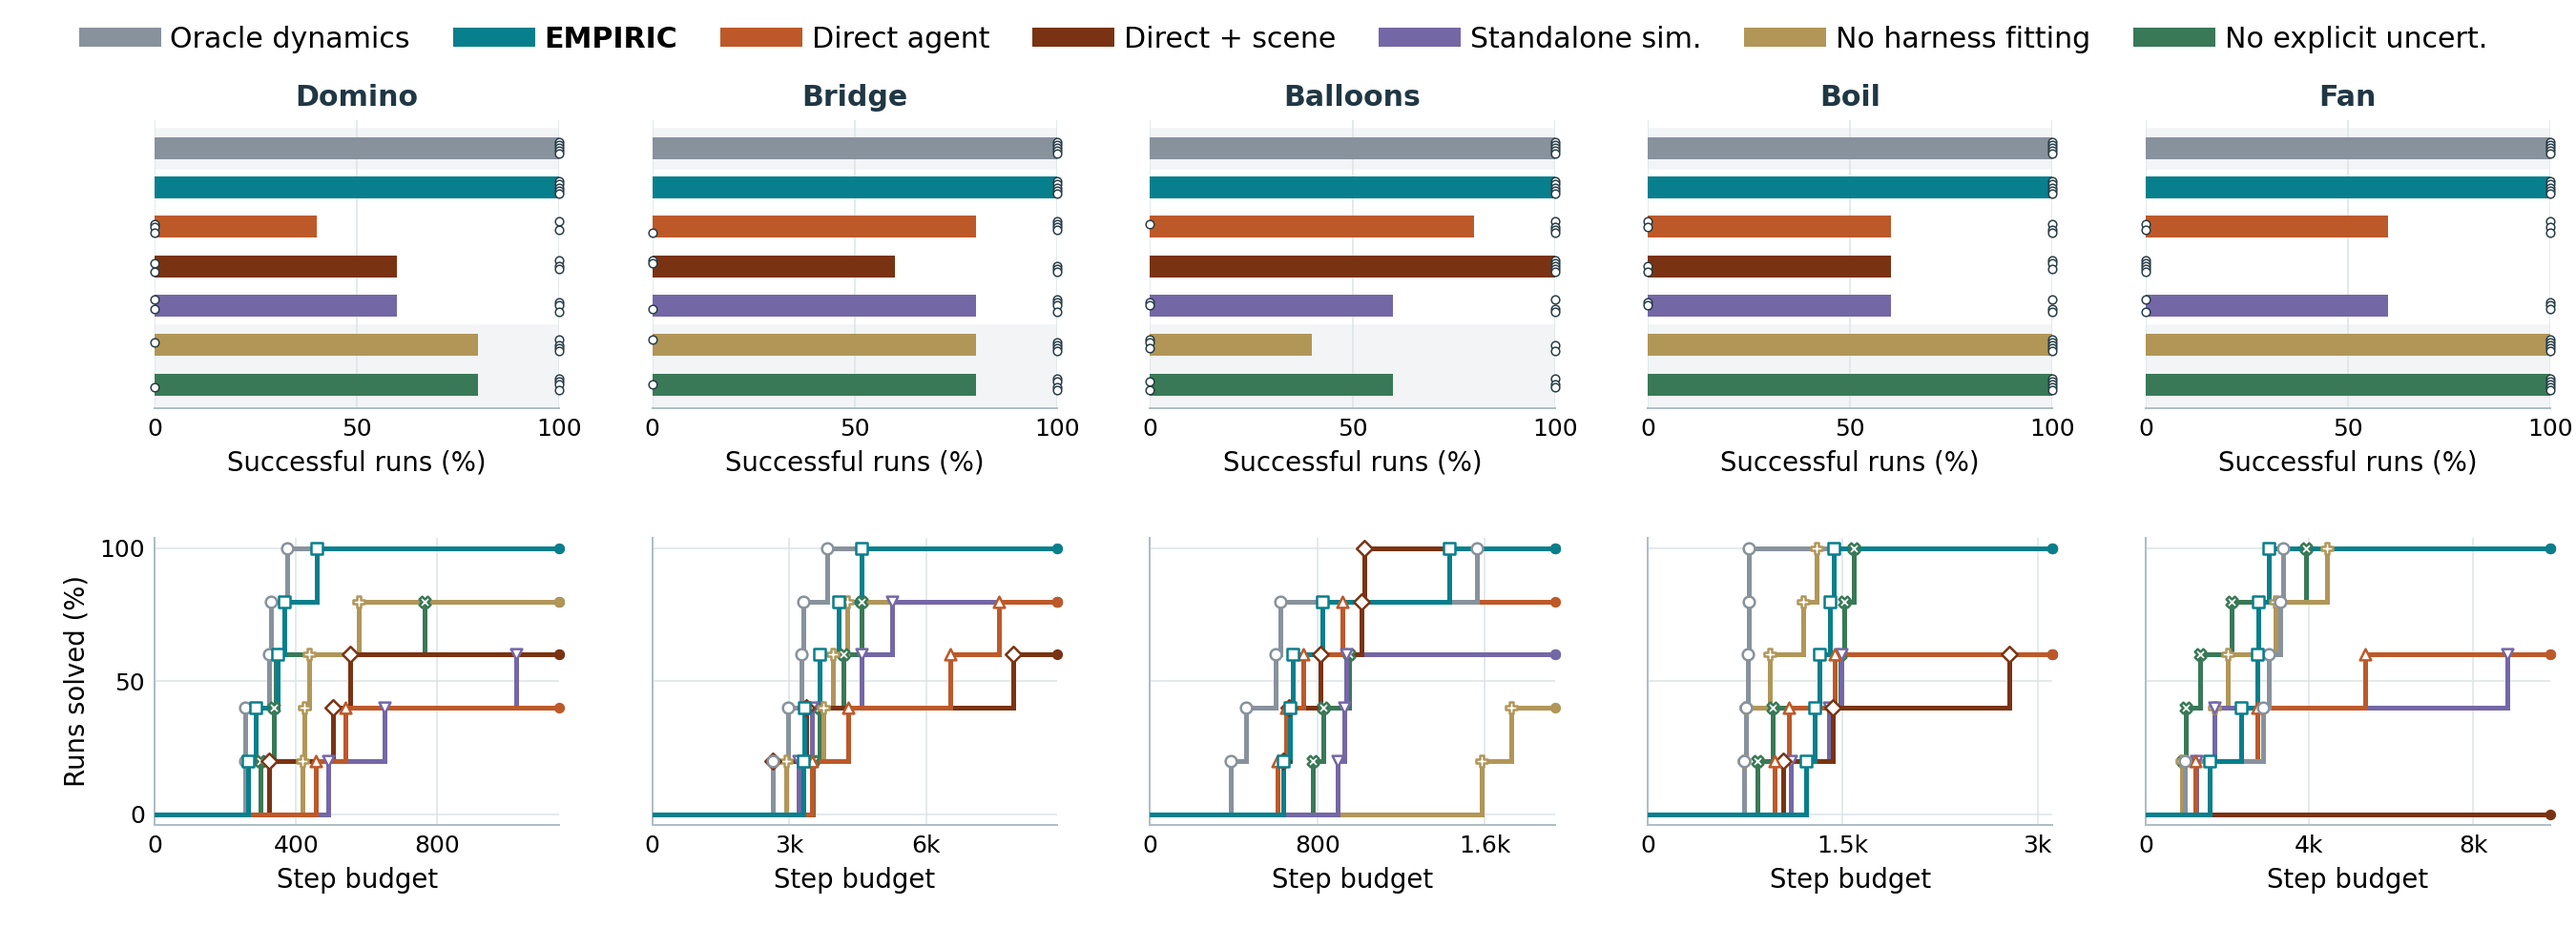
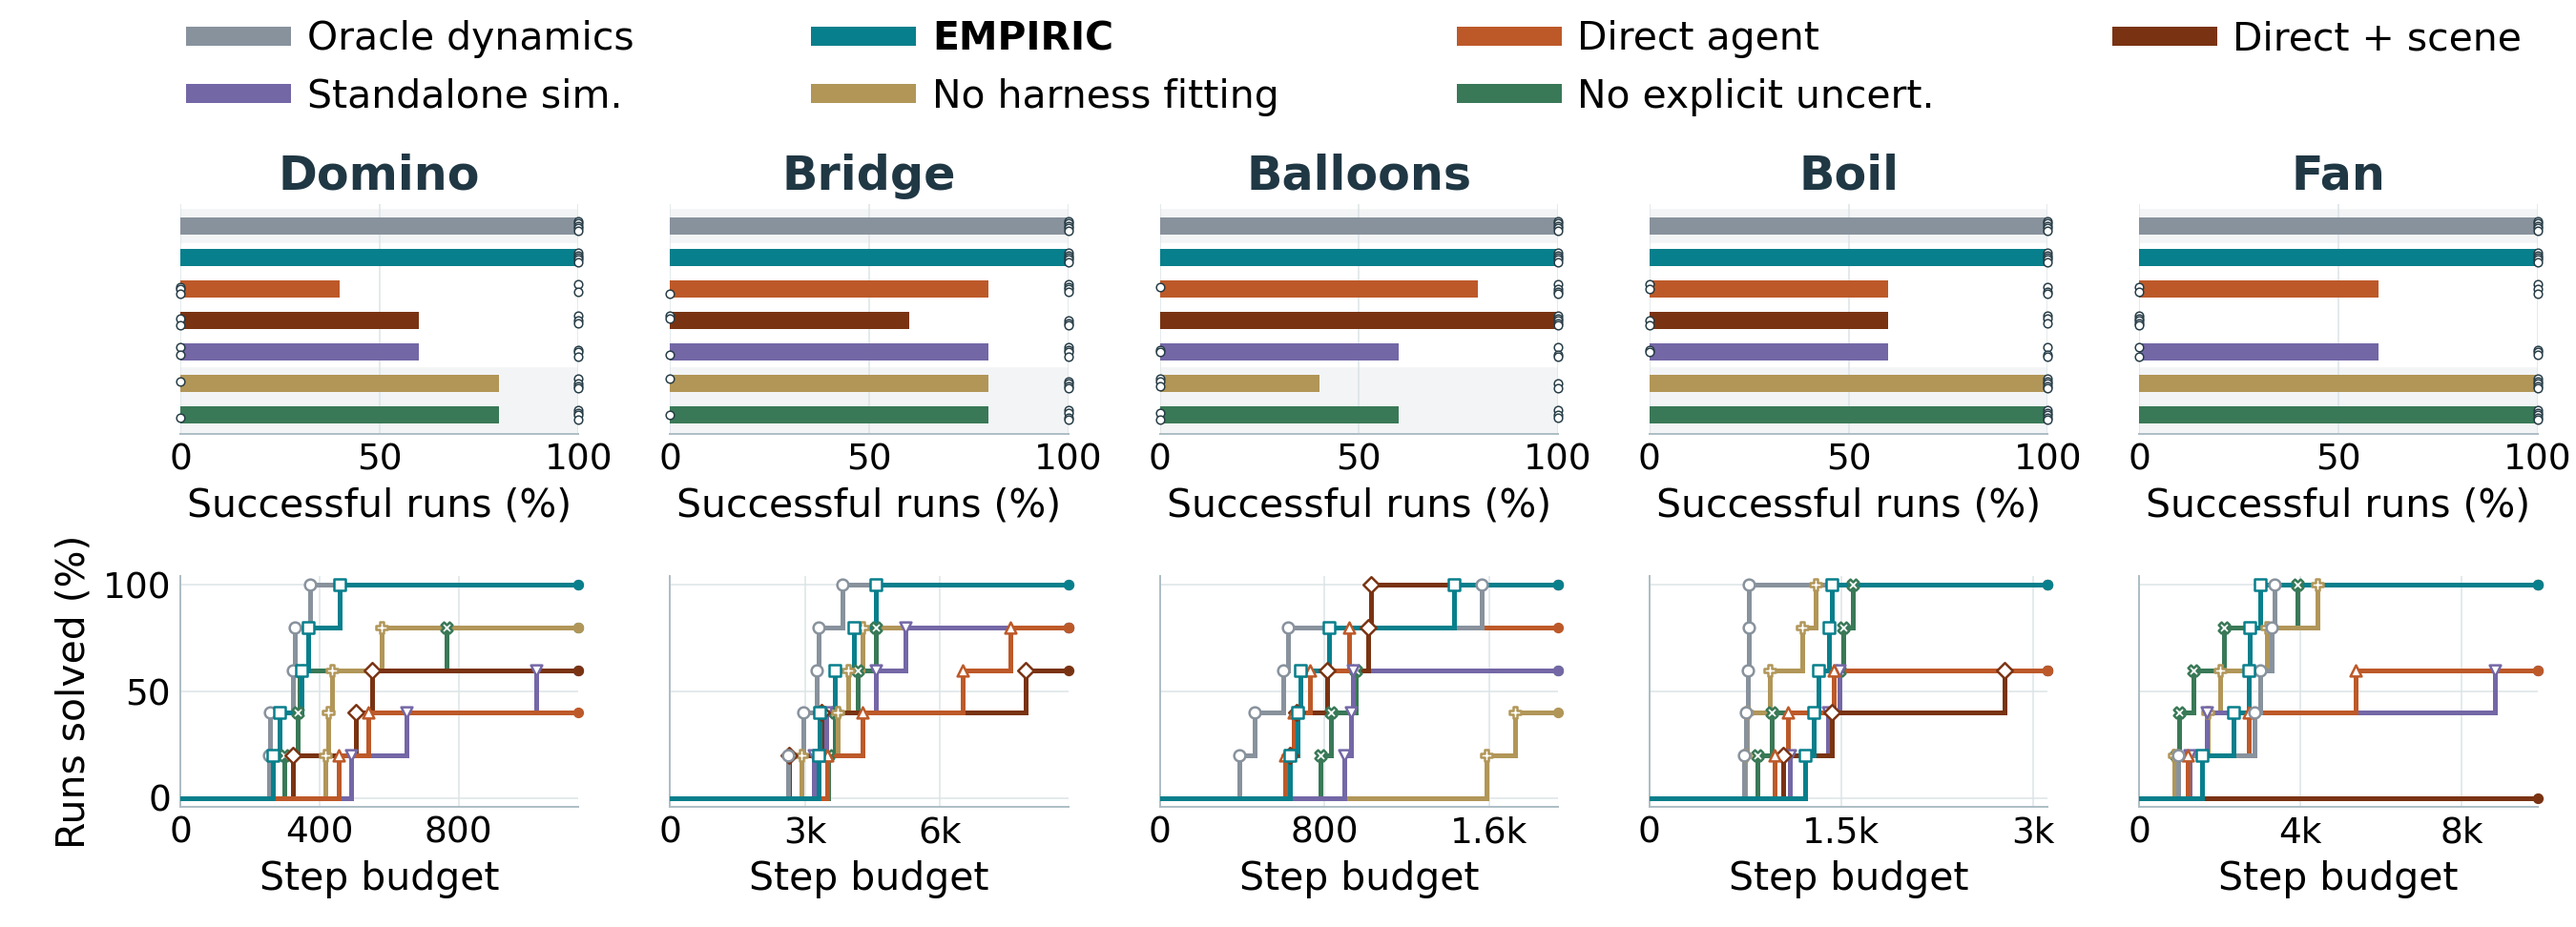
Print Figure 4's text at the size of Figures 1 to 3
The paper shrinks the 15 in results figure to the 5.5 in text width, so
its 10-12 pt text printed at 3.7-4.4 pt, against 5.2-7.8 pt in Figures 1
to 3. The paper view now sets its sizes in printed points: 5.5 pt ticks,
6 pt axis labels and legend, 7.2 pt domain titles. At that size the seven
agent names need two legend rows, read row by row, and the margins widen
to fit; the canvas stays 15 by 5.4 in, so the paper does not reflow.

--records=<summary.json> redraws an archived selection without scanning
the logs. The figure was redrawn from its own summary: the regenerated
summary is byte-identical, and every drawn bar, curve point, seed dot,
axis limit and tick matches the previous script's.

diff --git a/scripts/plotting/plot_benchmark_arms.py b/scripts/plotting/plot_benchmark_arms.py
@@ -10,7 +10,9 @@ Arms with no finished run in a domain draw nothing there.
 
 Usage: python scripts/plotting/plot_benchmark_arms.py <output stem>
 Add --paper after the output stem for the seven-arm, two-row paper view,
-using repaired Oracle r2 cohorts in Domino and Bridge only.
+using repaired Oracle r2 cohorts in Domino and Bridge only. Add
+--records=<summary.json> to redraw an archived selection, such as the
+paper's, instead of scanning the logs.
 writes <stem>.png, <stem>.pdf and <stem>-summary.json (per-seed records
 with the run directory each one read, plus the per-arm summary).
 """
@@ -19,7 +21,7 @@ import json
 import os
 import sys
 from pathlib import Path
-from typing import Any, Dict, List, Optional
+from typing import Any, Dict, List, NamedTuple, Optional
 
 import matplotlib
 
@@ -247,6 +249,21 @@ MUTED = {
 Row = Dict[str, Any]
 
 
+class Fonts(NamedTuple):
+    """Text sizes, in points on the figure canvas."""
+    tick: float
+    label: float
+    title: float
+    legend: float
+
+
+SCREEN_FONTS = Fonts(tick=10, label=11, title=12, legend=10)
+# The paper prints its 15 in wide canvas at the 5.5 in text width. These
+# printed sizes match the text of Figures 1 to 3: 5.5 pt ticks, 6 pt labels
+# and legend, 7.2 pt domain titles.
+PAPER_FONTS = Fonts(*(size * 15.0 / 5.5 for size in (5.5, 6.0, 7.2, 6.0)))
+
+
 def colour(arm: str, i: int) -> str:
     """The arm's bar and line colour."""
     return MUTED[arm] if arm in GREYED else COLORS[i]
@@ -336,7 +353,8 @@ def _solve_curves(ax: Any,
                   domain: str,
                   col: int,
                   arms: Optional[List[str]] = None,
-                  curve_style: str = "default") -> None:
+                  curve_style: str = "default",
+                  fonts: Fonts = SCREEN_FONTS) -> None:
     """Fraction of finished runs that solved the domain within each step
     budget: a step up at every solved run's total steps, flat after the
     last one, so the plateau height is the solve rate."""
@@ -403,11 +421,11 @@ def _solve_curves(ax: Any,
                           if x >= 1000 else f"{x:g}"))
         ax.spines[["top", "right", "left"]].set_visible(False)
         ax.spines["bottom"].set_color("#aebec5")
-        ax.tick_params(length=0, pad=4, labelsize=10)
+        ax.tick_params(length=0, pad=4, labelsize=fonts.tick)
         ax.grid(axis="x", color="#dce4e7", lw=.6)
-        ax.set_xlabel("Successful-run steps", fontsize=11)
+        ax.set_xlabel("Successful-run steps", fontsize=fonts.label)
         if col == 0:
-            ax.set_ylabel("Successful seeds", fontsize=11)
+            ax.set_ylabel("Successful seeds", fontsize=fonts.label)
         return
     # Paint in reverse legend order so the primary methods remain visible
     # where curves overlap. EMPIRIC is painted after the
@@ -475,11 +493,11 @@ def _solve_curves(ax: Any,
         FuncFormatter(lambda x, _: f"{x/1000:g}k" if x >= 1000 else f"{x:g}"))
     ax.spines[["top", "right"]].set_visible(False)
     ax.spines[["bottom", "left"]].set_color("#aebec5")
-    ax.tick_params(length=0, pad=4, labelsize=10)
+    ax.tick_params(length=0, pad=4, labelsize=fonts.tick)
     ax.grid(color="#dce4e7", lw=.6)
-    ax.set_xlabel("Step budget", fontsize=11)
+    ax.set_xlabel("Step budget", fontsize=fonts.label)
     if col == 0:
-        ax.set_ylabel("Runs solved (%)", fontsize=11)
+        ax.set_ylabel("Runs solved (%)", fontsize=fonts.label)
 
 
 def render(rows: List[Row],
@@ -492,6 +510,7 @@ def render(rows: List[Row],
         "font.size": 9,
         "pdf.fonttype": 42
     })
+    fonts = PAPER_FONTS if paper else SCREEN_FONTS
     arms = PAPER_ARMS if paper else ARMS
     labels = [LABELS[ARMS.index(a)] for a in arms]
     if paper:
@@ -524,7 +543,7 @@ def render(rows: List[Row],
                         fontsize=9,
                         zorder=5)
             if field == "steps":
-                _solve_curves(ax, rows, domain, col, arms, curve_style)
+                _solve_curves(ax, rows, domain, col, arms, curve_style, fonts)
                 if not any(r["domain"] == domain for r in rows):
                     ax.set_xticks([])
                 continue
@@ -581,7 +600,7 @@ def render(rows: List[Row],
             for group_index, (_, start, end) in enumerate(groups):
                 if group_index % 2 == 0:
                     ax.axhspan(start - .5, end - .5, color="#f2f4f5", zorder=0)
-            ax.set_yticks(range(len(arms)), labels, fontsize=10)
+            ax.set_yticks(range(len(arms)), labels, fontsize=fonts.tick)
             ax.tick_params(axis="y", labelleft=False)
             for tick, arm in zip(ax.get_yticklabels(), arms):
                 if arm in ("MB", "MB_r2"):
@@ -590,18 +609,18 @@ def render(rows: List[Row],
                     tick.set_color("#9aa3a8")
             ax.spines[["top", "right", "left"]].set_visible(False)
             ax.spines["bottom"].set_color("#aebec5")
-            ax.tick_params(length=0, pad=4, labelsize=10)
+            ax.tick_params(length=0, pad=4, labelsize=fonts.tick)
             ax.set_axisbelow(True)
             ax.grid(axis="x", color="#dce4e7", lw=.6)
             if field == "solve":
                 ax.set_xlim((0, 100) if paper else (-3, 108))
                 ax.set_xticks([0, 50, 100])
                 ax.set_title(DISPLAY_TITLE[domain],
-                             fontsize=12,
+                             fontsize=fonts.title,
                              fontweight="bold",
                              color="#203744",
                              pad=6 if paper else 12)
-                ax.set_xlabel("Successful runs (%)", fontsize=11)
+                ax.set_xlabel("Successful runs (%)", fontsize=fonts.label)
             elif field == "steps":
                 maximum = max(
                     (r["steps"] for r in rows
@@ -612,17 +631,20 @@ def render(rows: List[Row],
                 ax.xaxis.set_major_formatter(
                     FuncFormatter(lambda x, _: f"{x/1000:g}k"
                                   if x >= 1000 else f"{x:g}"))
-                ax.set_xlabel("Successful-run steps", fontsize=11)
+                ax.set_xlabel("Successful-run steps", fontsize=fonts.label)
             else:
                 ax.set_xlim(left=-.05, right=max(1, ax.get_xlim()[1]))
                 ax.xaxis.set_major_locator(MaxNLocator(3, integer=True))
-                ax.set_xlabel("Resets (all runs)", fontsize=11)
-    fig.subplots_adjust(left=.06,
-                        right=.99,
-                        top=.87 if paper else .89,
-                        bottom=.11 if paper else .05,
+                ax.set_xlabel("Resets (all runs)", fontsize=fonts.label)
+    # The paper's printed text is larger relative to the canvas, so it fits
+    # four agents per legend row and needs wider margins.
+    legend_columns = 4 if paper else 6
+    fig.subplots_adjust(left=.07 if paper else .06,
+                        right=.985 if paper else .99,
+                        top=.78 if paper else .89,
+                        bottom=.13 if paper else .05,
                         wspace=.23,
-                        hspace=.45)
+                        hspace=.62 if paper else .45)
     handles = []
     legend_labels = []
     legend_arms = []
@@ -635,25 +657,25 @@ def render(rows: List[Row],
                            lw=8.0 if paper else 5.0))
             legend_labels.append(labels[i])
             legend_arms.append(arm)
-    legend_anchor = (.03, .985, .94, 0.) if paper else (.5, .985)
-    if not paper:
-        # Matplotlib fills columns first; keep the visual reading order by row.
-        indices = [
-            i for col in range(6) for i in (col, col + 6) if i < len(arms)
-        ]
-        handles = [handles[i] for i in indices]
-        legend_labels = [legend_labels[i] for i in indices]
-        legend_arms = [legend_arms[i] for i in indices]
+    legend_anchor = (.07, .995, .915, 0.) if paper else (.5, .985)
+    # Matplotlib fills columns first; keep the visual reading order by row.
+    indices = [
+        i for col in range(legend_columns)
+        for i in range(col, len(arms), legend_columns)
+    ]
+    handles = [handles[i] for i in indices]
+    legend_labels = [legend_labels[i] for i in indices]
+    legend_arms = [legend_arms[i] for i in indices]
     leg = fig.legend(handles,
                      legend_labels,
                      loc="upper left" if paper else "upper center",
-                     ncol=len(arms) if paper else 6,
+                     ncol=legend_columns,
                      mode="expand" if paper else None,
                      borderaxespad=0 if paper else .5,
                      columnspacing=0.9 if paper else 2.0,
                      handlelength=2.2 if paper else 2.0,
                      handletextpad=0.65 if paper else 0.8,
-                     fontsize=12 if paper else 10,
+                     fontsize=fonts.legend,
                      frameon=False,
                      bbox_to_anchor=legend_anchor)
     for text, arm in zip(leg.get_texts(), legend_arms):
@@ -673,7 +695,14 @@ def render(rows: List[Row],
 
 def main() -> None:
     """Print every finished seed and draw the figure."""
-    found = records()
+    archive = next((arg.removeprefix("--records=")
+                    for arg in sys.argv[2:] if arg.startswith("--records=")),
+                   None)
+    if archive is None:
+        found = records()
+    else:
+        with open(archive, encoding="utf-8") as f:
+            found = json.load(f)["records"]
     for row in found:
         print(row["domain"], row["arm"], f"s{row['seed']}",
               f"{row['won']}/{row['levels']}", row["steps"], "steps",
@@ -686,7 +715,8 @@ def main() -> None:
         "markers")
     if curve_style not in {"default", "offset", "dashes", "markers", "strips"}:
         raise ValueError(f"Unknown curve style: {curve_style}")
-    render(paper_records(found) if paper else found,
+    # An archived selection is drawn as recorded.
+    render(paper_records(found) if paper and archive is None else found,
            out,
            paper=paper,
            curve_style=curve_style)

diff --git a/docs/comparisons/paper-results.md b/docs/comparisons/paper-results.md
@@ -7,7 +7,8 @@
 The figure includes Oracle dynamics, EMPIRIC, Direct agent, Direct + scene, Standalone sim., No harness fitting, and No explicit uncert.
 Direct + scene denotes the direct agent provided with scene assets.
 Paper columns are ordered Domino, Bridge, Balloons, Boil, Fan.
-Agent names appear only in the centered, full-width single-row top legend, above the domain titles, with thick color samples matching the bars and curves.
+Agent names appear only in the full-width top legend, above the domain titles, with thick color samples matching the bars and curves.
+The legend reads by rows, four agents per row, because at the paper's text size seven names do not fit on one row.
 For seeds 0-2, Oracle dynamics uses r2 in Domino and Bridge and the original benchmark cohort in Boil, Balloons, and Fan.
 The five-seed selection additionally includes repaired Oracle seeds 3-4 in every domain, and EMPIRIC r2 seeds 3-4 alongside the original EMPIRIC cohort.
 The other five approaches likewise include the additional seeds 3-4 as they finish.
@@ -24,10 +25,17 @@ Alternating backgrounds distinguish Oracle, comparison methods, and EMPIRIC abla
 The generated `figures/paper-results-opus-summary.json` records the source directory and original arm of each included run.
 Historical cohorts remain separate in the full benchmark figure.
 This paper figure is a separately generated snapshot, not automatically synchronized to Overleaf.
-The snapshot includes the finished seeds available at regeneration time, with larger 12-point agent names in the top legend.
+The snapshot includes the finished seeds available at regeneration time.
+The paper prints the 15 in wide figure at the 5.5 in text width, so its text sizes are set in printed points to match Figures 1 to 3: 5.5 pt ticks, 6 pt axis labels and legend, and 7.2 pt domain titles (`PAPER_FONTS` in the script).
 
 Regenerate on a compute node from the repository root:
 
 ```bash
 PYTHONPATH=. MPLBACKEND=Agg OPENBLAS_NUM_THREADS=1 /home/ycliang/.conda/envs/pred/bin/python scripts/plotting/plot_benchmark_arms.py docs/comparisons/figures/paper-results-opus --paper
+```
+
+To restyle the figure without changing its runs, redraw the archived selection instead of scanning the logs; this needs no compute node:
+
+```bash
+PYTHONPATH=. MPLBACKEND=Agg OPENBLAS_NUM_THREADS=1 /home/ycliang/.conda/envs/pred/bin/python scripts/plotting/plot_benchmark_arms.py docs/comparisons/figures/paper-results-opus --paper --records=docs/comparisons/figures/paper-results-opus-summary.json
 ```
